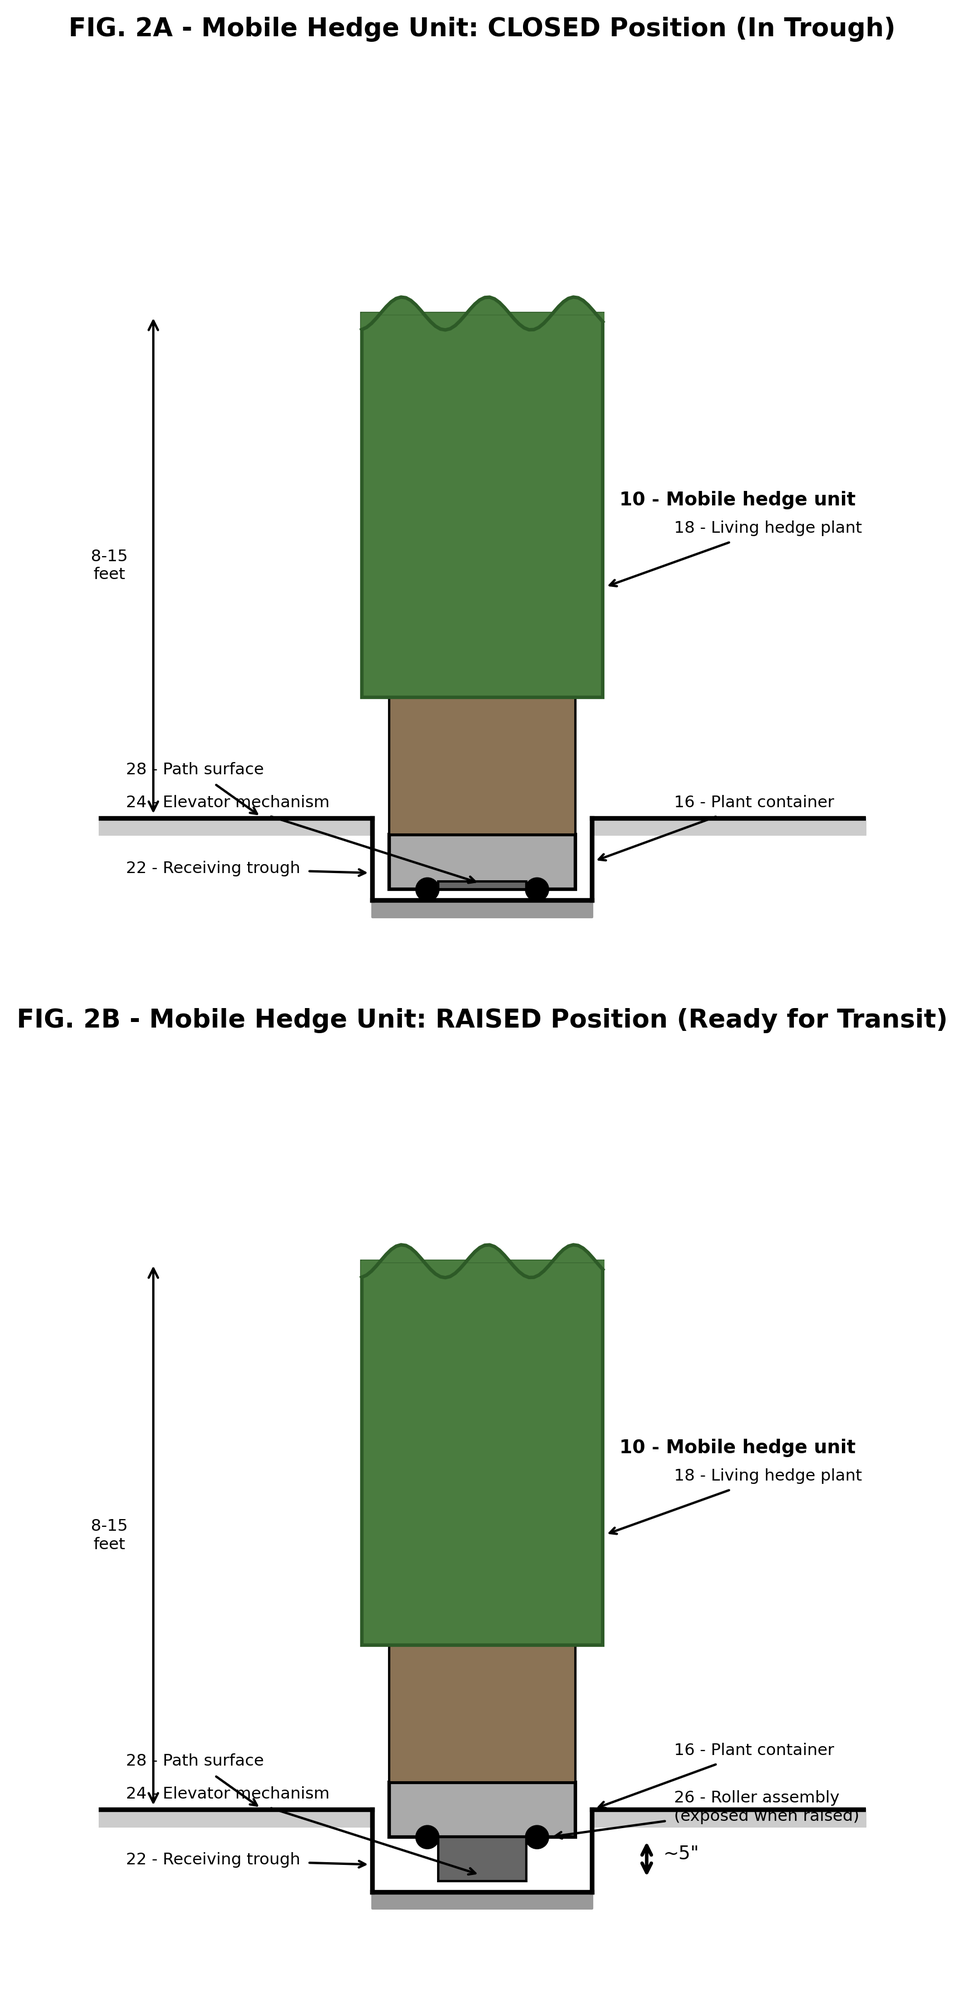
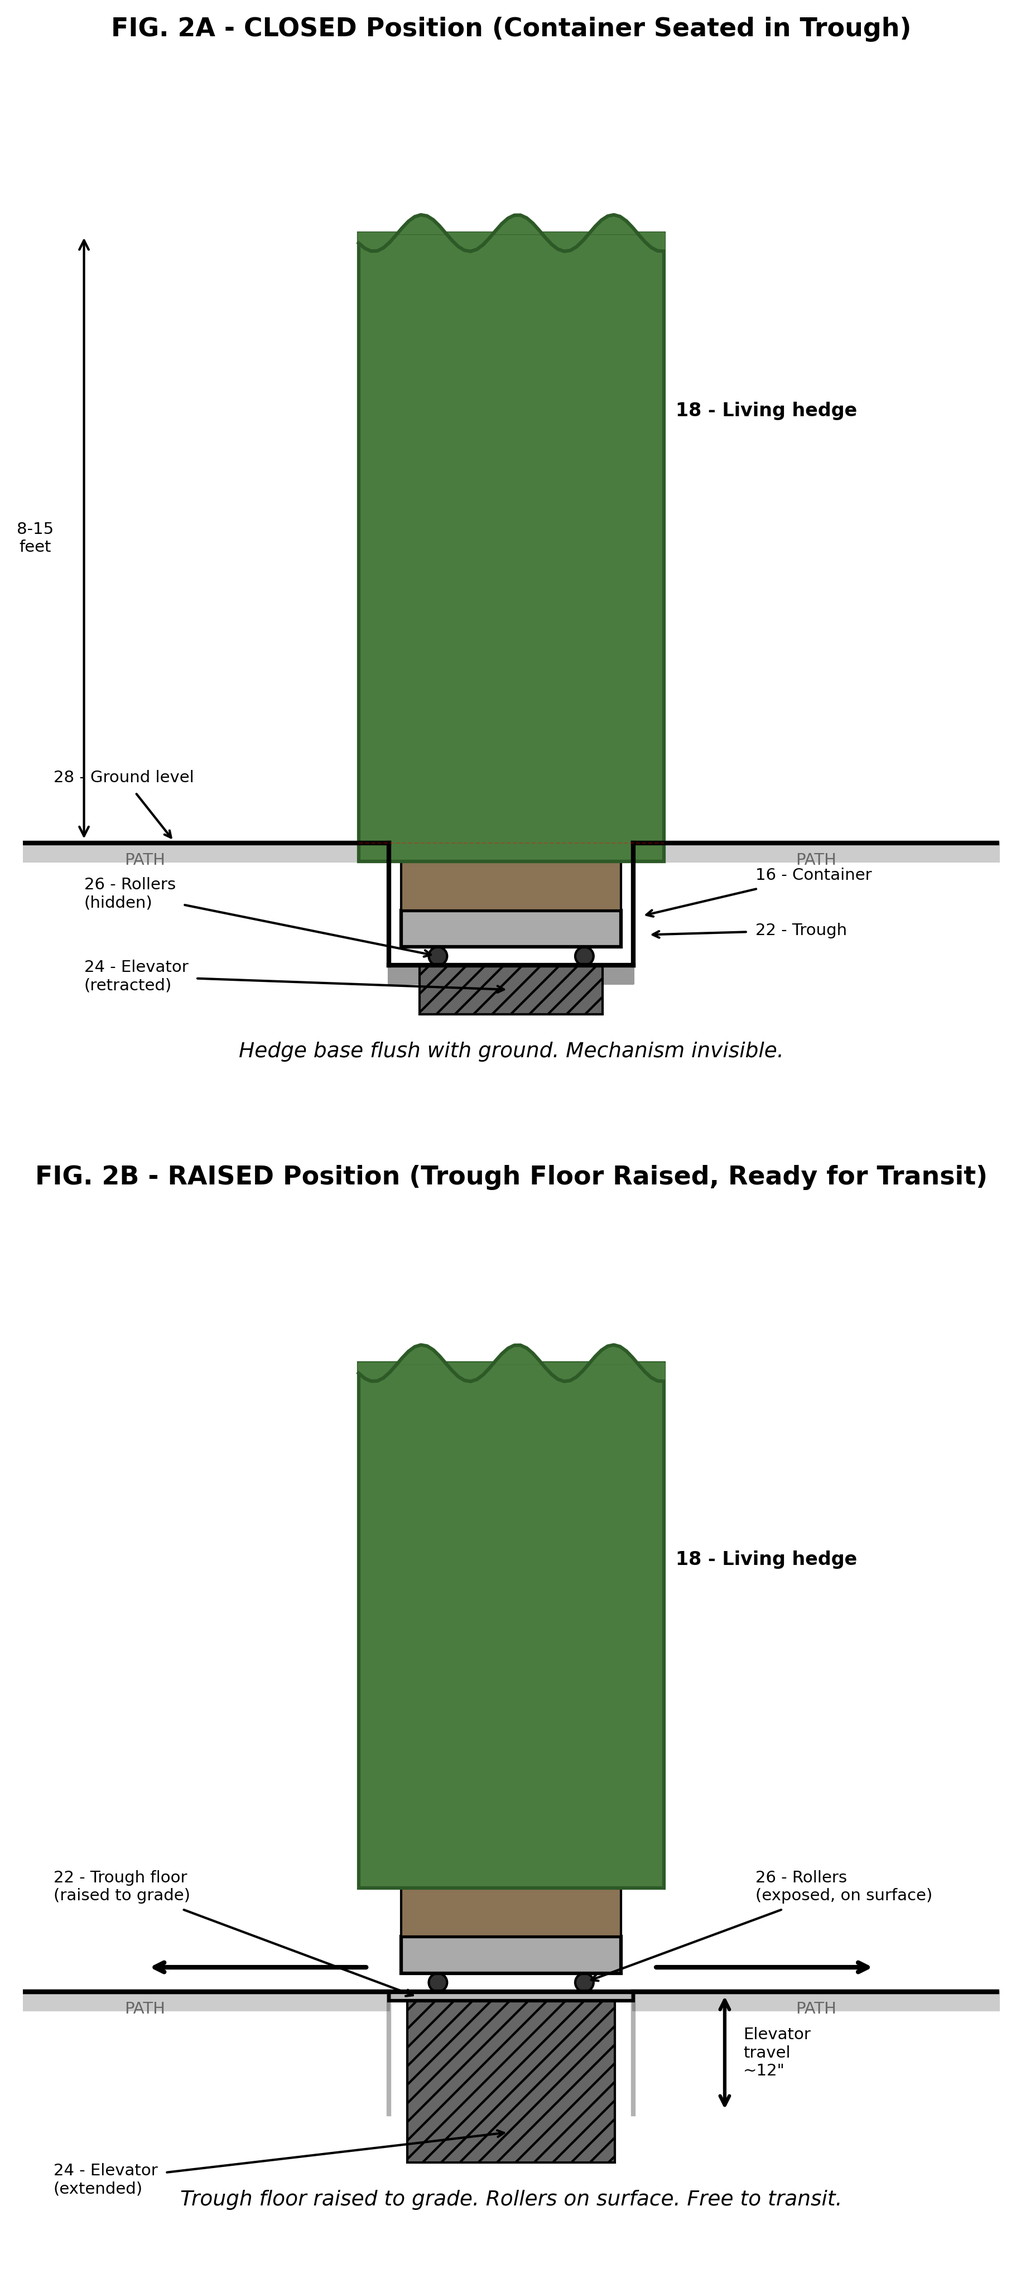
Patent: fix Fig 2B labels, add combinatorial analysis
- Fixed overlapping labels in Fig 2B (elevator/trough floor)
- Added combinatorial configuration analysis to specification:
  60 units x 4 positions x 20 open = 4.6 x 10^27 configurations
  Exceeds age of universe by factor of 10^15
  Demonstrates practically infinite variety from finite installation
- Rebuilt HTML for print-to-PDF

diff --git a/patent/provisional-application.html b/patent/provisional-application.html
@@ -129,6 +129,19 @@
 <h2>SUMMARY OF THE INVENTION</h2>
 <p>The present invention provides a system and method for creating a continuously reconfigurable outdoor labyrinth comprising a plurality of living plant containers mounted on motorized transport platforms. Each platform operates within a bounded positioning zone on a prepared surface, repositioning autonomously according to algorithmic scheduling to create new maze configurations. The system integrates with a guest navigation application and emergency management systems.</p>
 <p>The invention achieves a maze that is visually and experientially indistinguishable from a traditional planted hedge maze, while being capable of producing a functionally infinite number of unique configurations through the combinatorial repositioning of its movable sections.</p>
+<h3>Combinatorial Configuration Analysis</h3>
+<p>The number of unique maze configurations grows combinatorially with the number of mobile hedge units and their available positions. For a system with N mobile hedge units, each operable in P discrete positions within its positioning zone:</p>
+<ul>
+<li>The total number of raw position combinations is P^N.</li>
+<li>When combined with a section rotation system where K of N total sections are designated as open at any time, the number of unique visitor-facing configurations is C(N, K) x P^K, where C(N, K) is the binomial coefficient "N choose K."</li>
+</ul>
+<p><strong>Example configurations for representative system sizes:</strong></p>
+<ul>
+<li>20 mobile units, 4 positions each, 20 open: 4^20 = 1.1 x 10^12 (1.1 trillion) configurations.</li>
+<li>40 mobile units, 4 positions each, 20 open: C(40,20) x 4^20 = 1.4 x 10^23 configurations.</li>
+<li>60 mobile units, 4 positions each, 20 open: C(60,20) x 4^20 = 4.6 x 10^27 configurations.</li>
+</ul>
+<p>At a reconfiguration rate of one new configuration per day, a system of 60 mobile units with 20 open at any time would require approximately 1.3 x 10^25 years to exhaust all unique configurations, a duration exceeding the estimated age of the universe (1.4 x 10^10 years) by a factor of approximately 10^15. The system therefore produces a practically infinite variety of visitor experiences from a finite physical installation.</p>
 <hr />
 <h2>DETAILED DESCRIPTION OF THE INVENTION</h2>
 <h3>1. System Overview</h3>

diff --git a/patent/generate_drawings.py b/patent/generate_drawings.py
@@ -101,111 +101,231 @@ def fig1_system_overview():
 
 
 def fig2_mobile_unit_side():
-    """Fig 2: Side cross-section of mobile hedge unit in trough (closed position)"""
-    fig, axes = plt.subplots(2, 1, figsize=(10, 12))
+    """Fig 2: Side cross-section of mobile hedge unit showing trough-elevator mechanism.
+    
+    Key concept: The TROUGH FLOOR rises up (not the container lifting itself).
+    - 2A CLOSED: Container sits in trough. Hedge base is flush with ground level.
+      The container/soil section is shallow. Green hedge dominates.
+    - 2B RAISED: Trough floor has risen to be flush with ground surface.
+      Rollers on bottom of container are now on a surface level with the path.
+      Unit is free to roll forward/backward off the trough onto the path.
+    """
+    fig, axes = plt.subplots(2, 1, figsize=(11, 14))
 
     for idx, (ax, title, raised) in enumerate(zip(axes,
-        ['FIG. 2A - Mobile Hedge Unit: CLOSED Position (In Trough)',
-         'FIG. 2B - Mobile Hedge Unit: RAISED Position (Ready for Transit)'],
+        ['FIG. 2A - CLOSED Position (Container Seated in Trough)',
+         'FIG. 2B - RAISED Position (Trough Floor Raised, Ready for Transit)'],
         [False, True])):
 
-        ax.set_xlim(-2, 12)
-        ax.set_ylim(-3, 14)
+        ax.set_xlim(-3, 13)
+        ax.set_ylim(-4.5, 13)
         ax.set_aspect('equal')
         ax.set_title(title, fontsize=11, fontweight='bold')
 
         ground_y = 0
-        trough_depth = 1.5
-        lift_height = 0.8 if raised else 0
+        trough_depth = 2.0
+        trough_left = 3.0
+        trough_right = 7.0
+        trough_width = trough_right - trough_left
+        container_inset = 0.2  # gap between container and trough walls
 
-        # Ground surface
-        ax.fill_between([-2, 3], [ground_y, ground_y], [-0.3, -0.3], color='#cccccc')
-        ax.fill_between([7, 12], [ground_y, ground_y], [-0.3, -0.3], color='#cccccc')
-        ax.plot([-2, 3], [ground_y, ground_y], 'k-', linewidth=2)
-        ax.plot([7, 12], [ground_y, ground_y], 'k-', linewidth=2)
+        # ---- GROUND SURFACE (left and right of trough) ----
+        ax.fill_between([-3, trough_left], [ground_y]*2, [-0.3]*2, color='#cccccc')
+        ax.fill_between([trough_right, 13], [ground_y]*2, [-0.3]*2, color='#cccccc')
+        ax.plot([-3, trough_left], [ground_y]*2, 'k-', linewidth=2)
+        ax.plot([trough_right, 13], [ground_y]*2, 'k-', linewidth=2)
 
-        # Trough
-        trough_bottom = ground_y - trough_depth
-        ax.plot([3, 3], [ground_y, trough_bottom], 'k-', linewidth=2)
-        ax.plot([7, 7], [ground_y, trough_bottom], 'k-', linewidth=2)
-        ax.plot([3, 7], [trough_bottom, trough_bottom], 'k-', linewidth=2)
-        ax.fill_between([3, 7], [trough_bottom]*2, [trough_bottom-0.3]*2, color='#999999')
+        # ---- PATH LABEL ----
+        ax.text(-1, -0.15, 'PATH', fontsize=7, ha='center', va='top', color='#666')
+        ax.text(10, -0.15, 'PATH', fontsize=7, ha='center', va='top', color='#666')
 
-        # Container base
-        container_bottom = trough_bottom + 0.2 + lift_height
-        container_top = container_bottom + 1.0
+        if not raised:
+            # ============ 2A: CLOSED ============
+            # Trough walls (below ground)
+            trough_bottom = ground_y - trough_depth
+            ax.plot([trough_left, trough_left], [ground_y, trough_bottom], 'k-', linewidth=2)
+            ax.plot([trough_right, trough_right], [ground_y, trough_bottom], 'k-', linewidth=2)
+            # Trough floor
+            ax.plot([trough_left, trough_right], [trough_bottom]*2, 'k-', linewidth=2)
+            # Trough concrete fill
+            ax.fill_between([trough_left, trough_right], [trough_bottom]*2,
+                          [trough_bottom - 0.3]*2, color='#999999')
 
-        ax.add_patch(patches.Rectangle((3.3, container_bottom), 3.4, 1.0,
-                     facecolor='#aaaaaa', edgecolor='black', linewidth=1.5))
+            # Elevator mechanism below trough (hidden, compressed)
+            elev_top = trough_bottom
+            elev_bottom = trough_bottom - 0.8
+            ax.add_patch(patches.Rectangle((trough_left + 0.5, elev_bottom),
+                         trough_width - 1.0, 0.8,
+                         facecolor='#666666', edgecolor='black', linewidth=1,
+                         hatch='///'))
 
-        # Wheels/rollers (shown if raised)
-        if raised:
-            for wx in [4.0, 6.0]:
-                circle = plt.Circle((wx, container_bottom), 0.2, facecolor='black', edgecolor='black')
+            # Container sitting in trough
+            cont_left = trough_left + container_inset
+            cont_right = trough_right - container_inset
+            cont_w = cont_right - cont_left
+            cont_bottom = trough_bottom + 0.15
+            cont_h = 0.6  # shallow container
+
+            # Rollers (hidden at bottom, resting on trough floor)
+            for wx in [cont_left + 0.6, cont_right - 0.6]:
+                circle = plt.Circle((wx, cont_bottom), 0.15,
+                                   facecolor='#333', edgecolor='black', linewidth=1)
                 ax.add_patch(circle)
-            ax.annotate('26 - Roller assembly\n(exposed when raised)',
-                       xy=(6.2, container_bottom), xytext=(8.5, container_bottom + 0.3),
-                       fontsize=7, arrowprops=dict(arrowstyle='->', lw=1))
+
+            # Container box
+            ax.add_patch(patches.Rectangle((cont_left, cont_bottom + 0.15), cont_w, cont_h,
+                         facecolor='#aaaaaa', edgecolor='black', linewidth=1.5))
+            cont_top_actual = cont_bottom + 0.15 + cont_h
+
+            # Soil
+            soil_h = 0.8
+            ax.add_patch(patches.Rectangle((cont_left, cont_top_actual), cont_w, soil_h,
+                         facecolor='#8B7355', edgecolor='black', linewidth=1))
+            soil_top = cont_top_actual + soil_h
+
+            # HEDGE (large, dominates the image, flush with ground at base)
+            hedge_bottom = soil_top
+            hedge_top = 10.0  # tall hedge
+            hedge_overhang = 0.7
+            ax.add_patch(patches.Rectangle((cont_left - hedge_overhang, hedge_bottom),
+                         cont_w + 2 * hedge_overhang, hedge_top - hedge_bottom,
+                         facecolor='#4a7c3f', edgecolor='#2d5a27', linewidth=1.5))
+
+            # Wavy top
+            x_wave = np.linspace(cont_left - hedge_overhang, cont_right + hedge_overhang, 50)
+            y_wave = hedge_top + 0.3 * np.sin(x_wave * 4)
+            ax.fill_between(x_wave, y_wave, hedge_top, color='#4a7c3f')
+            ax.plot(x_wave, y_wave, color='#2d5a27', linewidth=1.5)
+
+            # Check: hedge base should be very close to ground_y
+            ax.plot([trough_left - 0.5, trough_right + 0.5], [ground_y]*2,
+                   'r--', linewidth=0.5, alpha=0.3)  # ground reference line
+
+            # LABELS
+            ax.annotate('18 - Living hedge', xy=(cont_right + hedge_overhang + 0.2, 7),
+                       fontsize=8, fontweight='bold')
+            ax.annotate('16 - Container', xy=(cont_right + 0.3, cont_top_actual - 0.1),
+                       xytext=(9, cont_top_actual + 0.5), fontsize=7,
+                       arrowprops=dict(arrowstyle='->', lw=1))
+            ax.annotate('22 - Trough', xy=(trough_right + 0.2, trough_bottom + 0.5),
+                       xytext=(9, trough_bottom + 0.5), fontsize=7,
+                       arrowprops=dict(arrowstyle='->', lw=1))
+            ax.annotate('24 - Elevator\n(retracted)', xy=(5, elev_bottom + 0.4),
+                       xytext=(-2, elev_bottom + 0.4), fontsize=7,
+                       arrowprops=dict(arrowstyle='->', lw=1))
+            ax.annotate('26 - Rollers\n(hidden)', xy=(cont_left + 0.6, cont_bottom),
+                       xytext=(-2, cont_bottom + 0.8), fontsize=7,
+                       arrowprops=dict(arrowstyle='->', lw=1))
+            ax.annotate('28 - Ground level', xy=(-0.5, ground_y),
+                       xytext=(-2.5, ground_y + 1), fontsize=7,
+                       arrowprops=dict(arrowstyle='->', lw=1))
+
+            # Dimension: hedge height above ground
+            ax.annotate('', xy=(-2, ground_y), xytext=(-2, hedge_top),
+                       arrowprops=dict(arrowstyle='<->', lw=1))
+            ax.text(-2.8, (ground_y + hedge_top)/2, '8-15\nfeet', fontsize=7,
+                   ha='center', va='center')
+
+            ax.text(5, -3.5, 'Hedge base flush with ground. Mechanism invisible.',
+                   ha='center', fontsize=9, style='italic')
+
         else:
-            for wx in [4.0, 6.0]:
-                circle = plt.Circle((wx, container_bottom), 0.2, facecolor='black', edgecolor='black')
+            # ============ 2B: RAISED ============
+            # Trough walls still exist in ground but floor has risen
+            trough_bottom_original = ground_y - trough_depth
+            trough_floor_raised = ground_y  # floor is NOW flush with ground
+
+            # Draw trough walls (they're still there, but floor has risen past them)
+            ax.plot([trough_left, trough_left], [ground_y, trough_bottom_original], 'k-',
+                   linewidth=2, alpha=0.3)  # faded - walls are below the action now
+            ax.plot([trough_right, trough_right], [ground_y, trough_bottom_original], 'k-',
+                   linewidth=2, alpha=0.3)
+
+            # Elevator mechanism (extended, visible)
+            elev_bottom = trough_bottom_original - 0.8
+            ax.add_patch(patches.Rectangle((trough_left + 0.3, elev_bottom),
+                         trough_width - 0.6, trough_depth + 0.8,
+                         facecolor='#666666', edgecolor='black', linewidth=1,
+                         hatch='///'))
+
+            # Raised trough floor (now at ground level)
+            ax.add_patch(patches.Rectangle((trough_left, trough_floor_raised - 0.15),
+                         trough_width, 0.15,
+                         facecolor='#bbbbbb', edgecolor='black', linewidth=1.5))
+
+            # The path surface is now continuous across the trough
+            ax.plot([-3, 13], [ground_y]*2, 'k-', linewidth=2)
+
+            # Container sitting ON the raised floor (at ground level)
+            cont_left = trough_left + container_inset
+            cont_right = trough_right - container_inset
+            cont_w = cont_right - cont_left
+            cont_bottom = ground_y
+            cont_h = 0.6
+
+            # Rollers (NOW VISIBLE, sitting on the raised floor, ready to roll)
+            for wx in [cont_left + 0.6, cont_right - 0.6]:
+                circle = plt.Circle((wx, cont_bottom + 0.15), 0.15,
+                                   facecolor='#333', edgecolor='black', linewidth=1)
                 ax.add_patch(circle)
 
-        # Elevator mechanism
-        elev_y = trough_bottom + 0.2
-        ax.add_patch(patches.Rectangle((4.2, elev_y), 1.6, lift_height if raised else 0.15,
-                     facecolor='#666666', edgecolor='black', linewidth=1, linestyle='-'))
+            # Container
+            ax.add_patch(patches.Rectangle((cont_left, cont_bottom + 0.3), cont_w, cont_h,
+                         facecolor='#aaaaaa', edgecolor='black', linewidth=1.5))
+            cont_top_actual = cont_bottom + 0.3 + cont_h
 
-        # Soil in container
-        soil_top = container_top + 2.5
-        ax.add_patch(patches.Rectangle((3.3, container_top), 3.4, 2.5,
-                     facecolor='#8B7355', edgecolor='black', linewidth=1))
+            # Soil
+            soil_h = 0.8
+            ax.add_patch(patches.Rectangle((cont_left, cont_top_actual), cont_w, soil_h,
+                         facecolor='#8B7355', edgecolor='black', linewidth=1))
+            soil_top = cont_top_actual + soil_h
 
-        # Hedge plant (simplified as rectangle with wavy top)
-        hedge_bottom = soil_top
-        hedge_top = hedge_bottom + 7
-        ax.add_patch(patches.Rectangle((2.8, hedge_bottom), 4.4, 7,
-                     facecolor='#4a7c3f', edgecolor='#2d5a27', linewidth=1.5))
+            # Hedge
+            hedge_bottom = soil_top
+            hedge_top = 10.0 + 0.3  # slightly above ground ref since unit is raised
+            hedge_overhang = 0.7
+            ax.add_patch(patches.Rectangle((cont_left - hedge_overhang, hedge_bottom),
+                         cont_w + 2 * hedge_overhang, hedge_top - hedge_bottom,
+                         facecolor='#4a7c3f', edgecolor='#2d5a27', linewidth=1.5))
 
-        # Wavy top of hedge
-        x_wave = np.linspace(2.8, 7.2, 50)
-        y_wave = hedge_top + 0.3 * np.sin(x_wave * 4)
-        ax.fill_between(x_wave, y_wave, hedge_top, color='#4a7c3f')
-        ax.plot(x_wave, y_wave, color='#2d5a27', linewidth=1.5)
+            x_wave = np.linspace(cont_left - hedge_overhang, cont_right + hedge_overhang, 50)
+            y_wave = hedge_top + 0.3 * np.sin(x_wave * 4)
+            ax.fill_between(x_wave, y_wave, hedge_top, color='#4a7c3f')
+            ax.plot(x_wave, y_wave, color='#2d5a27', linewidth=1.5)
 
-        # Reference numerals
-        ax.annotate('10 - Mobile hedge unit', xy=(7.5, hedge_bottom + 3.5),
-                   fontsize=8, fontweight='bold')
-        ax.annotate('16 - Plant container', xy=(7, container_bottom + 0.5),
-                   xytext=(8.5, container_bottom + 1.5), fontsize=7,
-                   arrowprops=dict(arrowstyle='->', lw=1))
-        ax.annotate('18 - Living hedge plant', xy=(7.2, hedge_bottom + 2),
-                   xytext=(8.5, hedge_bottom + 3), fontsize=7,
-                   arrowprops=dict(arrowstyle='->', lw=1))
-        ax.annotate('22 - Receiving trough', xy=(3, trough_bottom + 0.5),
-                   xytext=(-1.5, trough_bottom + 0.5), fontsize=7,
-                   arrowprops=dict(arrowstyle='->', lw=1))
-        ax.annotate('24 - Elevator mechanism', xy=(5, elev_y + 0.1),
-                   xytext=(-1.5, elev_y + 1.5), fontsize=7,
-                   arrowprops=dict(arrowstyle='->', lw=1))
-        ax.annotate('28 - Path surface', xy=(1, ground_y),
-                   xytext=(-1.5, ground_y + 0.8), fontsize=7,
-                   arrowprops=dict(arrowstyle='->', lw=1))
+            # Movement arrows (can roll left or right)
+            ax.annotate('', xy=(-1, cont_bottom + 0.4), xytext=(cont_left - 0.5, cont_bottom + 0.4),
+                       arrowprops=dict(arrowstyle='->', lw=2, color='black'))
+            ax.annotate('', xy=(11, cont_bottom + 0.4), xytext=(cont_right + 0.5, cont_bottom + 0.4),
+                       arrowprops=dict(arrowstyle='->', lw=2, color='black'))
 
-        if raised:
-            # Show lift distance
-            ax.annotate('', xy=(8, trough_bottom + 0.2), xytext=(8, container_bottom),
+            # LABELS
+            ax.annotate('18 - Living hedge', xy=(cont_right + hedge_overhang + 0.2, 7),
+                       fontsize=8, fontweight='bold')
+            ax.annotate('26 - Rollers\n(exposed, on surface)', xy=(cont_right - 0.6, cont_bottom + 0.15),
+                       xytext=(9, cont_bottom + 1.5), fontsize=7,
+                       arrowprops=dict(arrowstyle='->', lw=1))
+            ax.annotate('24 - Elevator\n(extended)', xy=(5, elev_bottom + 0.5),
+                       xytext=(-2.5, elev_bottom - 0.5), fontsize=7,
+                       arrowprops=dict(arrowstyle='->', lw=1))
+            ax.annotate('22 - Trough floor\n(raised to grade)', xy=(trough_left + 0.5, ground_y - 0.1),
+                       xytext=(-2.5, ground_y + 1.5), fontsize=7,
+                       arrowprops=dict(arrowstyle='->', lw=1))
+
+            # Dimension: elevator travel
+            dim_x = trough_right + 1.5
+            ax.annotate('', xy=(dim_x, trough_bottom_original), xytext=(dim_x, ground_y),
                        arrowprops=dict(arrowstyle='<->', lw=1.5))
-            ax.text(8.3, (trough_bottom + 0.2 + container_bottom)/2, '~5"', fontsize=8)
+            ax.text(dim_x + 0.3, (trough_bottom_original + ground_y)/2,
+                   f'Elevator\ntravel\n~{trough_depth*12/2:.0f}"',
+                   fontsize=7, ha='left', va='center')
 
-        # Dimension line for hedge height
-        ax.annotate('', xy=(-1, ground_y), xytext=(-1, hedge_top),
-                   arrowprops=dict(arrowstyle='<->', lw=1))
-        ax.text(-1.8, (ground_y + hedge_top)/2, '8-15\nfeet', fontsize=7, ha='center', va='center')
+            ax.text(5, -3.5, 'Trough floor raised to grade. Rollers on surface. Free to transit.',
+                   ha='center', fontsize=9, style='italic')
 
         ax.axis('off')
 
-    fig.tight_layout()
+    fig.tight_layout(pad=2)
     save(fig, 'fig2_mobile_unit_side.png')
 
 

diff --git a/patent/provisional-application.md b/patent/provisional-application.md
@@ -44,6 +44,21 @@ The present invention provides a system and method for creating a continuously r
 
 The invention achieves a maze that is visually and experientially indistinguishable from a traditional planted hedge maze, while being capable of producing a functionally infinite number of unique configurations through the combinatorial repositioning of its movable sections.
 
+### Combinatorial Configuration Analysis
+
+The number of unique maze configurations grows combinatorially with the number of mobile hedge units and their available positions. For a system with N mobile hedge units, each operable in P discrete positions within its positioning zone:
+
+- The total number of raw position combinations is P^N.
+- When combined with a section rotation system where K of N total sections are designated as open at any time, the number of unique visitor-facing configurations is C(N, K) x P^K, where C(N, K) is the binomial coefficient "N choose K."
+
+**Example configurations for representative system sizes:**
+
+- 20 mobile units, 4 positions each, 20 open: 4^20 = 1.1 x 10^12 (1.1 trillion) configurations.
+- 40 mobile units, 4 positions each, 20 open: C(40,20) x 4^20 = 1.4 x 10^23 configurations.
+- 60 mobile units, 4 positions each, 20 open: C(60,20) x 4^20 = 4.6 x 10^27 configurations.
+
+At a reconfiguration rate of one new configuration per day, a system of 60 mobile units with 20 open at any time would require approximately 1.3 x 10^25 years to exhaust all unique configurations, a duration exceeding the estimated age of the universe (1.4 x 10^10 years) by a factor of approximately 10^15. The system therefore produces a practically infinite variety of visitor experiences from a finite physical installation.
+
 ---
 
 ## DETAILED DESCRIPTION OF THE INVENTION
